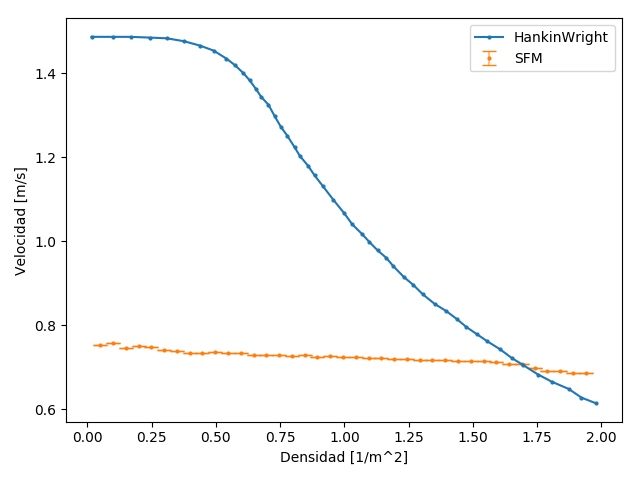
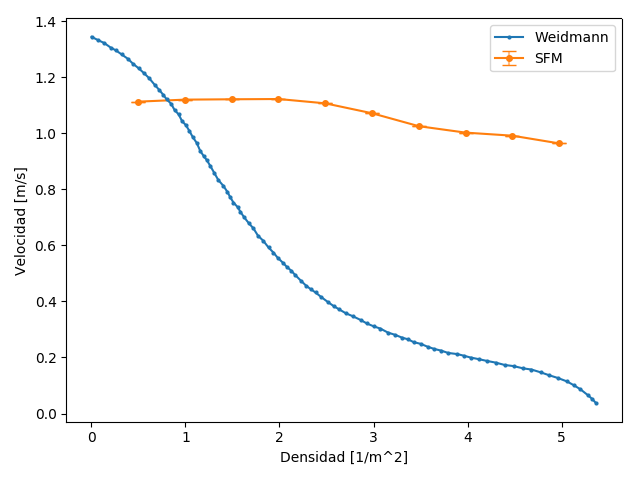
fixed radius

diff --git a/analysis/visualizer.py b/analysis/visualizer.py
@@ -317,14 +317,14 @@ def comparison_biblio():
   plt.show()
 
 def approx_biblio():
-  dirs = ['biblio/HankinWright.txt']
+  dirs = ['biblio/Weidmann.txt']
   methodDir = 'runs_6--1.5' 
   fig, ax = plt.subplots()
   # Load bibliography methods
   for dir in dirs:
     name, vals = parseBiblio(dir)
     xs = [val[0] for val in vals]
-    xs = list(filter(lambda x: x < 2, xs))
+    # xs = list(filter(lambda x: x < 2, xs))
     ys = [val[1] for val in vals]
     ys = ys[:len(xs)]
     ax.set_ylabel('Velocidad [m/s]')
@@ -332,7 +332,8 @@ def approx_biblio():
     ax.plot(xs, ys, "o-", label=name, markersize=2)
 
   xs, ys, errs = fundamental_diagram_calc(methodDir, 32 * math.pi)
-  markers, caps, bars = ax.errorbar(xs, ys, yerr=errs, capsize=5, label="SFM", capthick=1, fmt="o", zorder=1, markersize=2) 
+  xs, ys = zip(*sorted(zip(xs, ys)))
+  markers, caps, bars = ax.errorbar(xs, ys, yerr=errs, capsize=5, label="SFM", capthick=1, fmt="o-", zorder=1, markersize=4) 
   [bar.set_alpha(0.5) for bar in bars]
 
   fig.tight_layout()

diff --git a/analysis/runner.py b/analysis/runner.py
@@ -4,7 +4,7 @@ RESULTS_FOLDER = 'analysis/results'
 DEFAULT_OUTPUT = 'ovito_output.xyz'
 EXIT_OUTPUT = 'exit.txt'
 EXIT_FOLDER = 'analysis/exits'
-REPEAT = 20
+REPEAT = 10
 ITERATIONS = 1
 SIMULATION = 'time java -jar target/tpes-1.0-SNAPSHOT.jar < params.txt &'
 REMOVE = f'rm -fr {RESULTS_FOLDER}'
@@ -17,7 +17,7 @@ os.makedirs(RESULTS_FOLDER)
 # Generate multiple simulations
 for iteration in range(ITERATIONS):
   for simNum in range(REPEAT):
-    os.system(f'echo "{5 * (simNum + 20)}\n50\n{5 * (simNum + 20)}" > params.txt')
+    os.system(f'echo "{50 * (simNum + 1)}\n50\n{50 * (simNum + 10)}" > params.txt')
     os.system(SIMULATION) # run simulation
     os.system("sleep 2")
   # os.system("sleep 720")

diff --git a/src/main/java/ar/edu/itba/ss/tpe6/Configuration.java b/src/main/java/ar/edu/itba/ss/tpe6/Configuration.java
@@ -16,8 +16,8 @@ public class Configuration {
 	public static final double INTERNAL_RADIUS = 2; // m
 	public static final double A_CONSTANT = 2000; // N
 	public static final double B_CONSTANT = 0.08; // m
-	public static final double MIN_PARTICLE_RADIUS = 0.25; // m
-	public static final double MAX_PARTICLE_RADIUS = 0.30; // m
+	public static final double MIN_PARTICLE_RADIUS = 0.15; // m
+	public static final double MAX_PARTICLE_RADIUS = 0.25; // m
 	public static final double K_NORM = 1.2e5; // kg/s^2
 	public static final double K_TANG = 2 * K_NORM; // kg/(m s)
 	public static final double PARTICLE_MASS = 80; // kg
